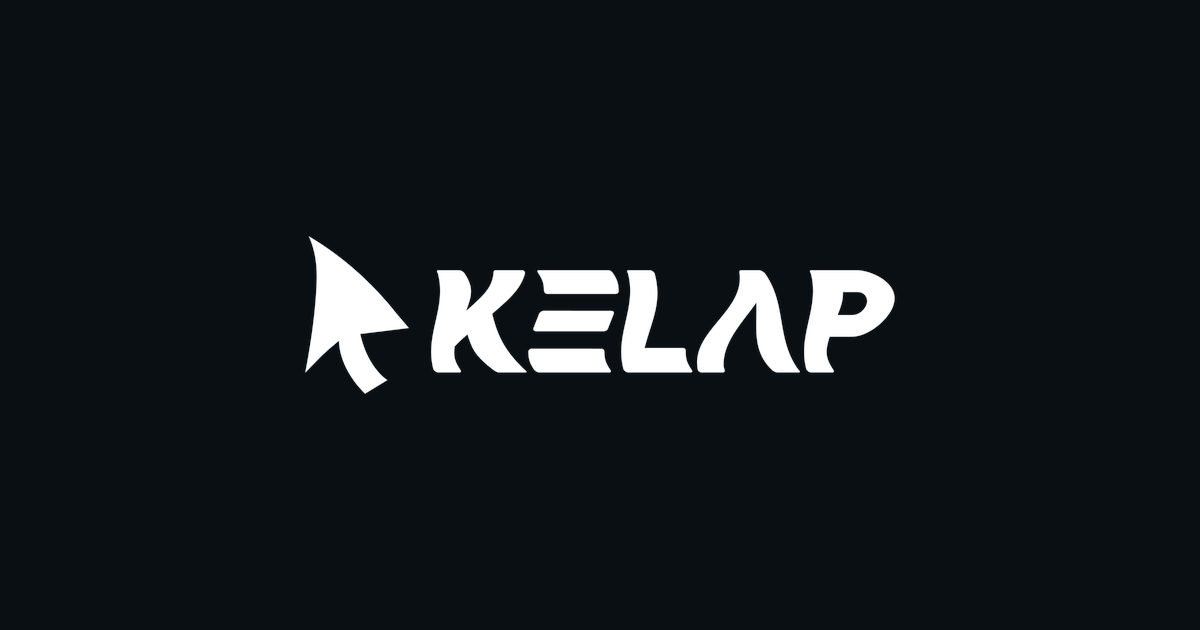
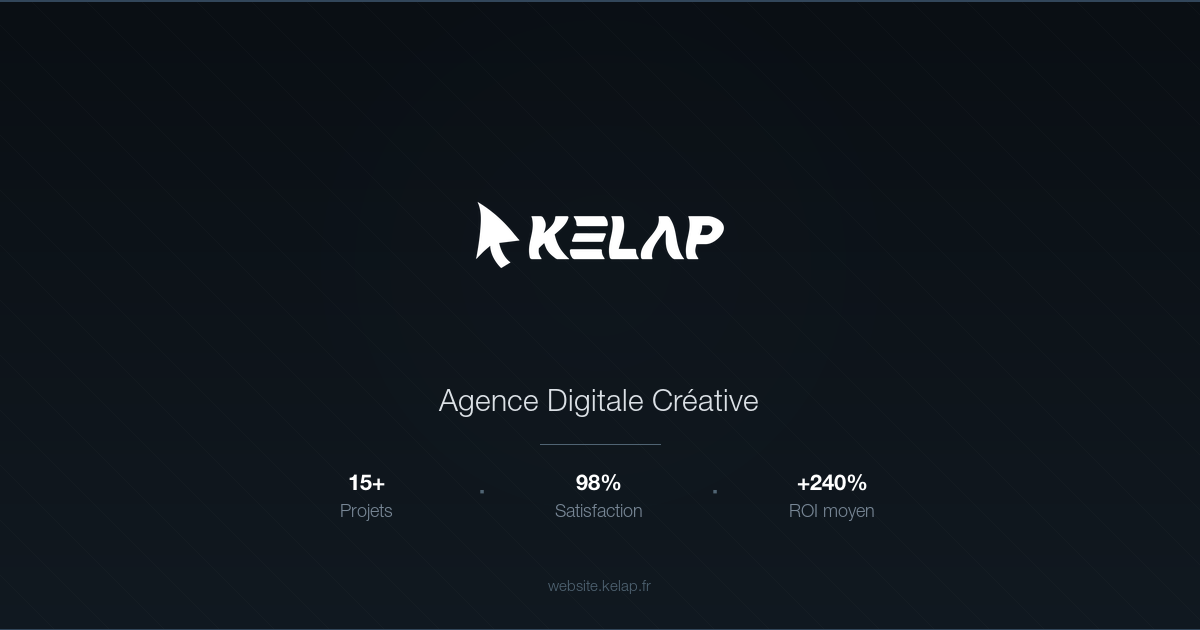
OG image + fix project count (50 → 15)
- Created branded OG image (1200x630) with logo, tagline, and stats
- Updated all meta descriptions, OG/Twitter tags, and counters
  from 50+ to 15+ projects (FR + EN)

diff --git a/index.html b/index.html
@@ -4,7 +4,7 @@
     <meta charset="UTF-8">
     <meta name="viewport" content="width=device-width, initial-scale=1.0">
     <title>KELAP &mdash; Agence Digitale Cr&eacute;ative | Sites Web, SaaS &amp; SEO</title>
-    <meta name="description" content="KELAP, agence digitale cr&eacute;ative &agrave; Paris. Cr&eacute;ation de sites web, landing pages, applications SaaS, e-commerce, SEO et automatisation IA. R&eacute;sultats concrets, +50 projets livr&eacute;s.">
+    <meta name="description" content="KELAP, agence digitale cr&eacute;ative &agrave; Paris. Cr&eacute;ation de sites web, landing pages, applications SaaS, e-commerce, SEO et automatisation IA. R&eacute;sultats concrets, +15 projets livr&eacute;s.">
     <meta name="author" content="KELAP">
     <meta name="robots" content="index, follow, max-image-preview:large, max-snippet:-1, max-video-preview:-1">
     <meta name="theme-color" content="#0a0f14">
@@ -17,7 +17,7 @@
 
     <!-- Open Graph -->
     <meta property="og:title" content="KELAP &mdash; Agence Digitale Cr&eacute;ative">
-    <meta property="og:description" content="Cr&eacute;ation de sites web, SaaS, e-commerce, SEO et automatisation IA. +50 projets livr&eacute;s, 98% satisfaction client.">
+    <meta property="og:description" content="Cr&eacute;ation de sites web, SaaS, e-commerce, SEO et automatisation IA. +15 projets livr&eacute;s, 98% satisfaction client.">
     <meta property="og:type" content="website">
     <meta property="og:url" content="https://website.kelap.fr/">
     <meta property="og:image" content="https://website.kelap.fr/assets/images/og-image.png">
@@ -31,7 +31,7 @@
     <!-- Twitter Card -->
     <meta name="twitter:card" content="summary_large_image">
     <meta name="twitter:title" content="KELAP &mdash; Agence Digitale Cr&eacute;ative">
-    <meta name="twitter:description" content="Cr&eacute;ation de sites web, SaaS, e-commerce, SEO et automatisation IA. +50 projets livr&eacute;s, 98% satisfaction client.">
+    <meta name="twitter:description" content="Cr&eacute;ation de sites web, SaaS, e-commerce, SEO et automatisation IA. +15 projets livr&eacute;s, 98% satisfaction client.">
     <meta name="twitter:image" content="https://website.kelap.fr/assets/images/og-image.png">
     <meta name="twitter:image:alt" content="KELAP - Agence Digitale Cr&eacute;ative">
 
@@ -267,7 +267,7 @@
 
             <div class="value__stats">
                 <div class="stat">
-                    <span class="stat__number" data-target="50">0</span>
+                    <span class="stat__number" data-target="15">0</span>
                     <span class="stat__suffix">+</span>
                     <span class="stat__label">Projets Livr&eacute;s</span>
                 </div>

diff --git a/en/index.html b/en/index.html
@@ -4,7 +4,7 @@
     <meta charset="UTF-8">
     <meta name="viewport" content="width=device-width, initial-scale=1.0">
     <title>KELAP &mdash; Creative Digital Agency | Websites, SaaS &amp; SEO</title>
-    <meta name="description" content="KELAP, creative digital agency. We build websites, landing pages, SaaS applications, e-commerce, SEO and AI automation. Real results, 50+ projects delivered.">
+    <meta name="description" content="KELAP, creative digital agency. We build websites, landing pages, SaaS applications, e-commerce, SEO and AI automation. Real results, 15+ projects delivered.">
     <meta name="author" content="KELAP">
     <meta name="robots" content="index, follow, max-image-preview:large, max-snippet:-1, max-video-preview:-1">
     <meta name="theme-color" content="#0a0f14">
@@ -17,7 +17,7 @@
 
     <!-- Open Graph -->
     <meta property="og:title" content="KELAP &mdash; Creative Digital Agency">
-    <meta property="og:description" content="Websites, SaaS, e-commerce, SEO and AI automation. 50+ projects delivered, 98% client satisfaction.">
+    <meta property="og:description" content="Websites, SaaS, e-commerce, SEO and AI automation. 15+ projects delivered, 98% client satisfaction.">
     <meta property="og:type" content="website">
     <meta property="og:url" content="https://website.kelap.fr/en/">
     <meta property="og:image" content="https://website.kelap.fr/assets/images/og-image.png">
@@ -31,7 +31,7 @@
     <!-- Twitter Card -->
     <meta name="twitter:card" content="summary_large_image">
     <meta name="twitter:title" content="KELAP &mdash; Creative Digital Agency">
-    <meta name="twitter:description" content="Websites, SaaS, e-commerce, SEO and AI automation. 50+ projects delivered, 98% client satisfaction.">
+    <meta name="twitter:description" content="Websites, SaaS, e-commerce, SEO and AI automation. 15+ projects delivered, 98% client satisfaction.">
     <meta name="twitter:image" content="https://website.kelap.fr/assets/images/og-image.png">
     <meta name="twitter:image:alt" content="KELAP - Creative Digital Agency">
 
@@ -267,7 +267,7 @@
 
             <div class="value__stats">
                 <div class="stat">
-                    <span class="stat__number" data-target="50">0</span>
+                    <span class="stat__number" data-target="15">0</span>
                     <span class="stat__suffix">+</span>
                     <span class="stat__label">Projects Delivered</span>
                 </div>
